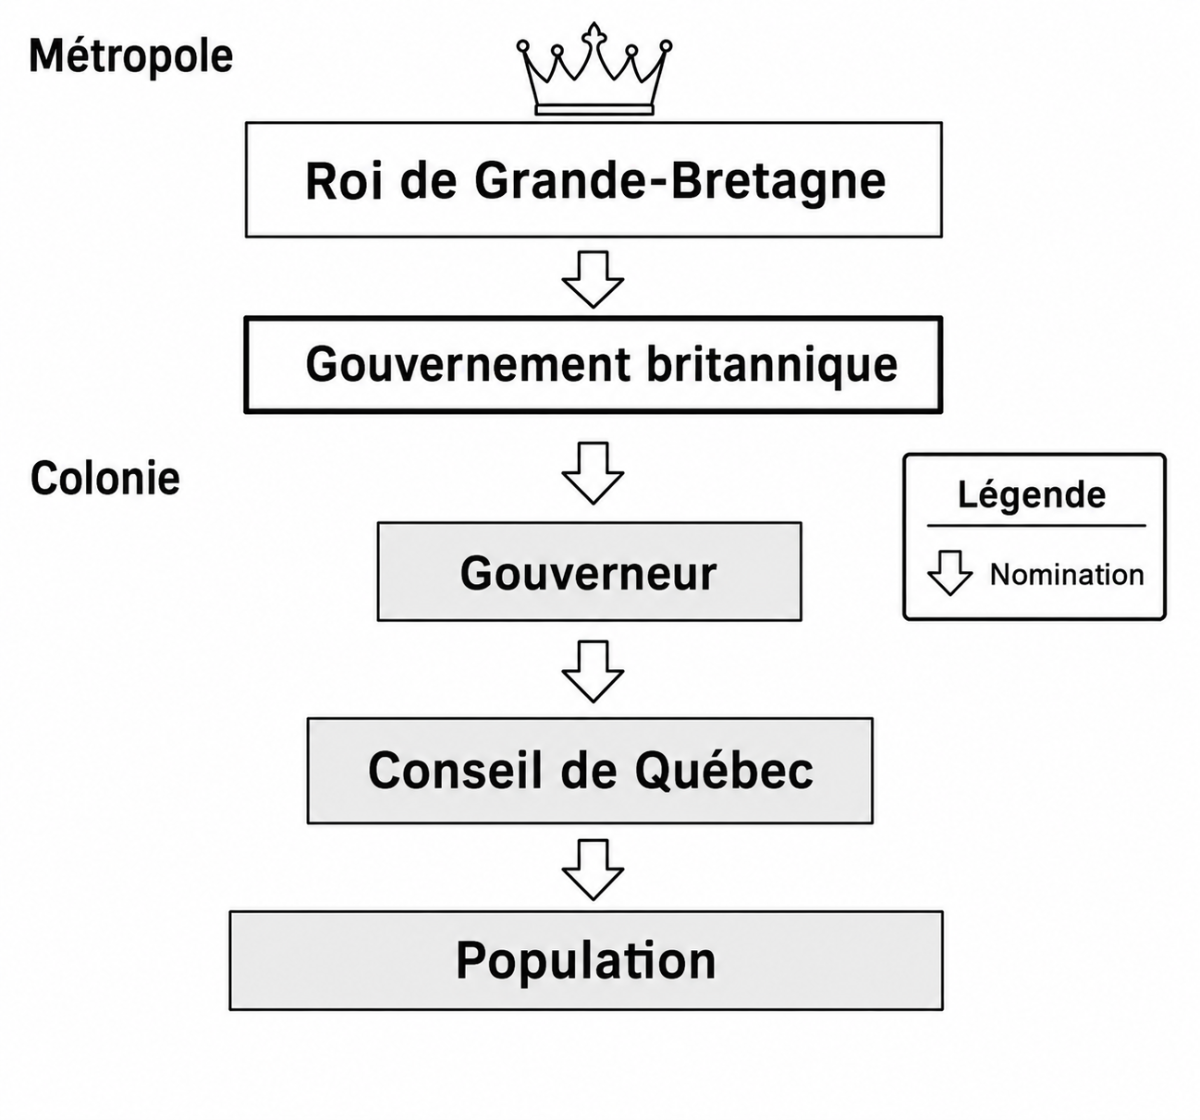
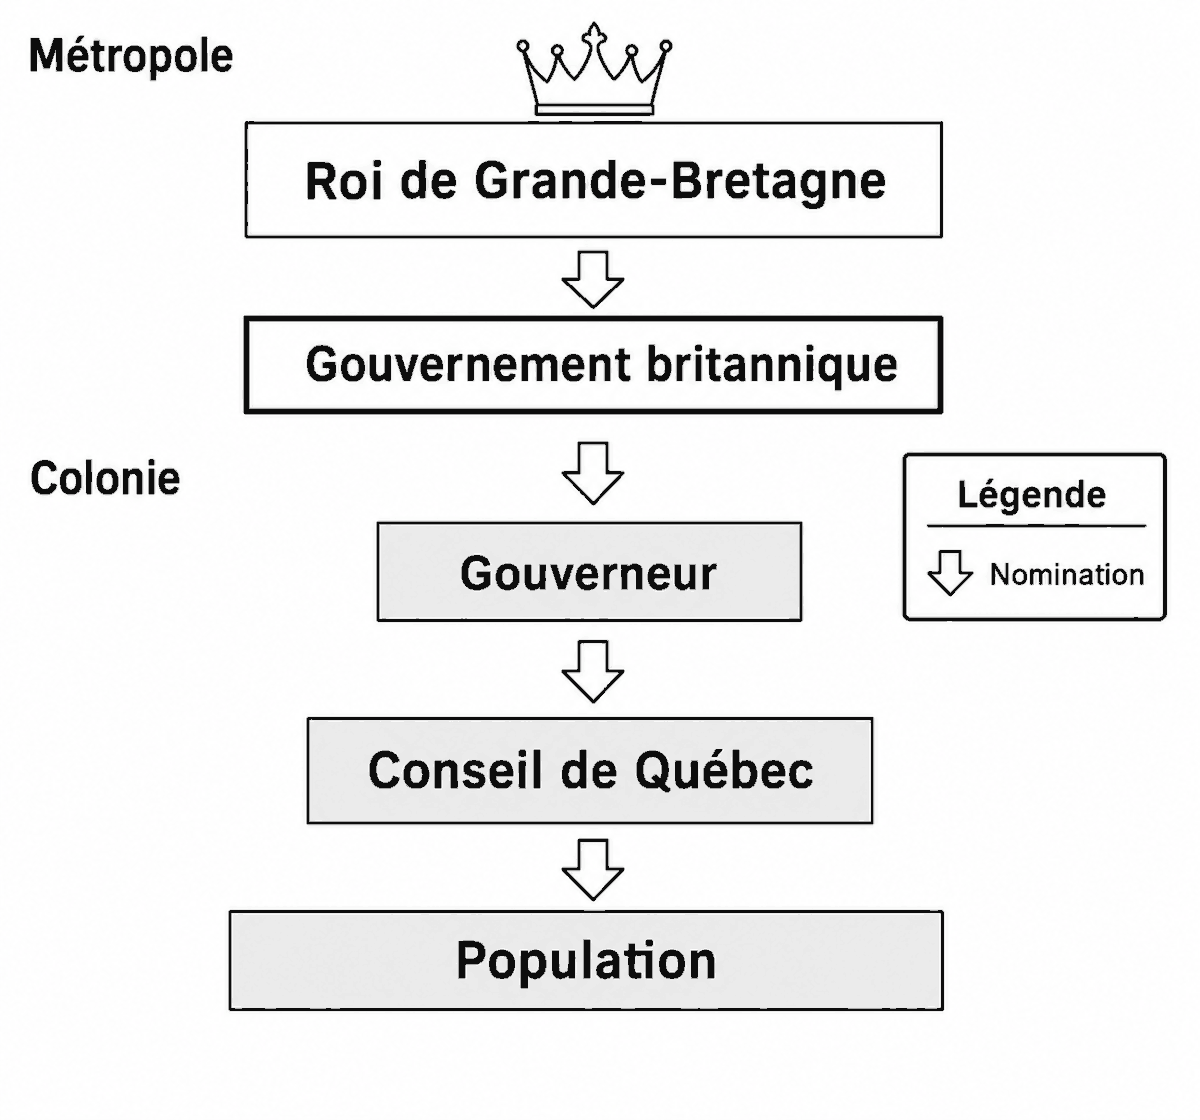
Corriger réf. image org_pol_apres_1763 + compresser le PNG
Les 3 questions et IMAGE_DB pointaient vers org_pol_apres_population_1763.png
(fichier inexistant, 404). Pointage corrigé vers org_pol_apres_1763.png, qui
existe déjà. PNG recompressé 1,3 Mo → 349 Ko (palette 16 couleurs).

https://claude.ai/code/session_01JBJZNagEa1XYuCebesmaj1

diff --git a/questions.js b/questions.js
@@ -5615,8 +5615,8 @@ const IMAGE_DB = {
   "carte_proclamation_royale_territoire.png": {
     src: "images/carte_proclamation_royale_territoire.png"
   },
-  "org_pol_apres_population_1763.png": {
-    src: "images/org_pol_apres_population_1763.png"
+  "org_pol_apres_1763.png": {
+    src: "images/org_pol_apres_1763.png"
   },
   "org_pol_apres_1784.png": {
     src: "images/org_pol_apres_1784.png"
@@ -15909,7 +15909,7 @@ const QUESTIONS = [
         cols: [
           {
             titre: "Document B",
-            ref: "org_pol_apres_population_1763.png",
+            ref: "org_pol_apres_1763.png",
             soustitre: "Organisation politique de la colonie après 1763",
             source: "Schéma produit par intelligence artificielle, inspiré des ouvrages d'histoire du Québec et du Canada."
           }
@@ -16327,7 +16327,7 @@ const QUESTIONS = [
         cols: [
           {
             titre: "Document B",
-            ref: "org_pol_apres_population_1763.png",
+            ref: "org_pol_apres_1763.png",
             source: "Schéma produit par intelligence artificielle, inspiré des ouvrages d'histoire du Québec et du Canada."
           }
         ]
@@ -16442,7 +16442,7 @@ const QUESTIONS = [
         cols: [
           {
             titre: "Document A",
-            ref: "org_pol_apres_population_1763.png",
+            ref: "org_pol_apres_1763.png",
             source: "Schéma produit par intelligence artificielle, inspiré des ouvrages d'histoire du Québec et du Canada."
           }
         ]
